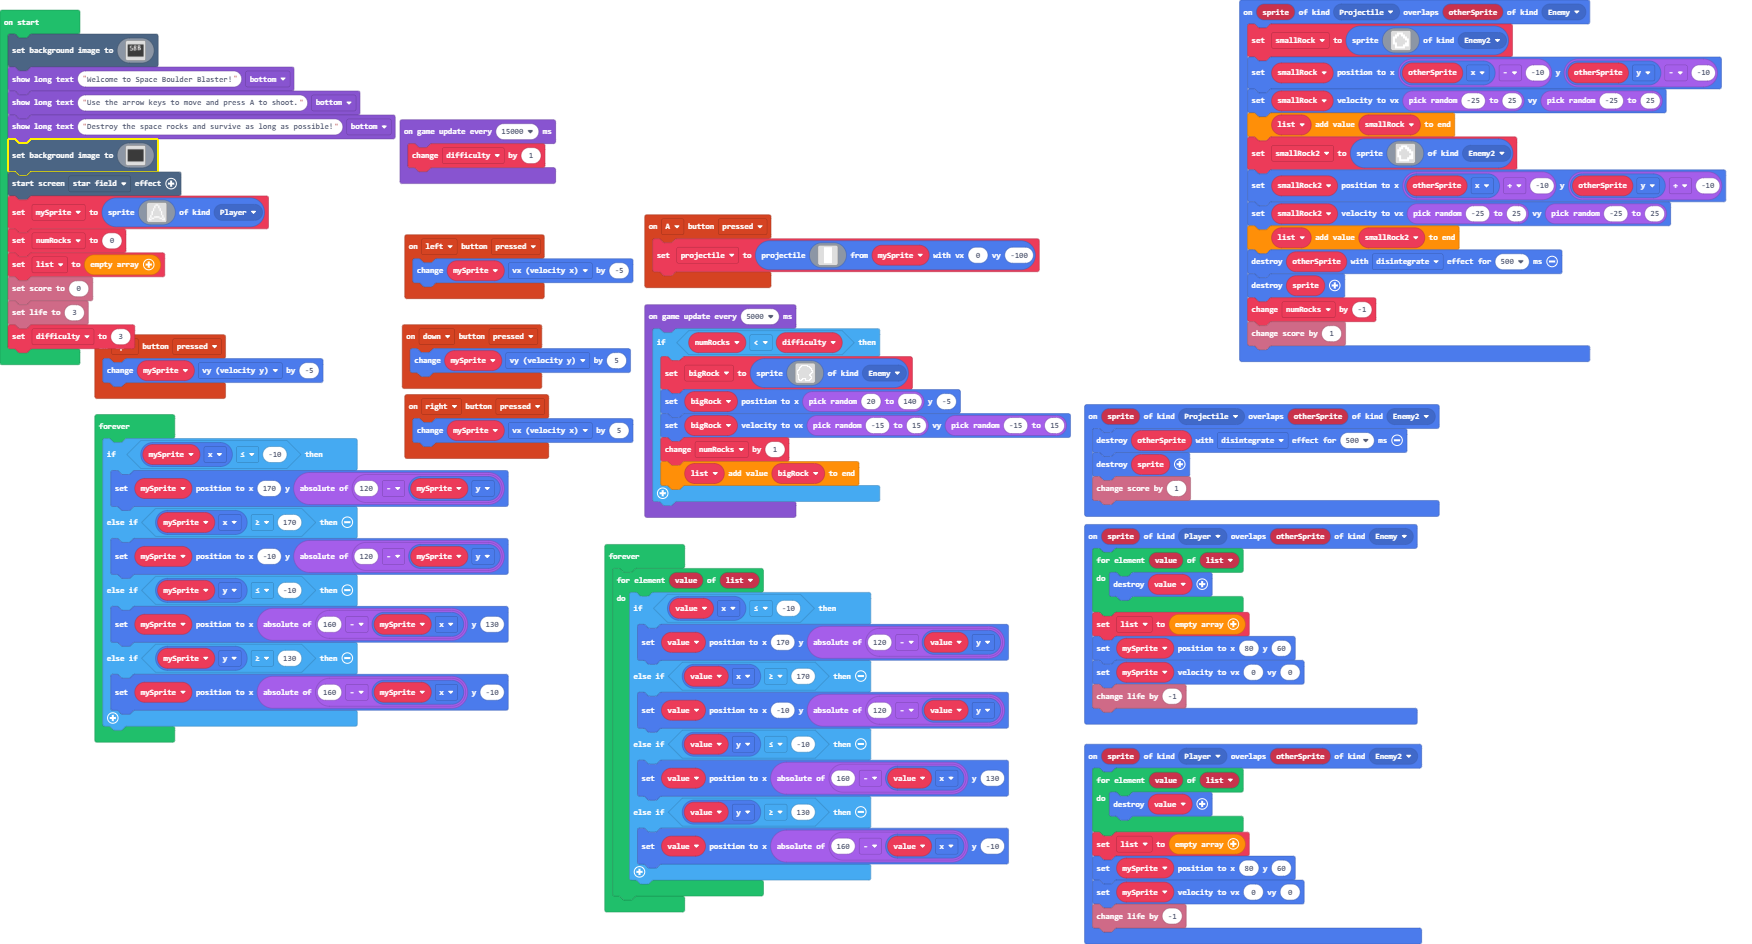
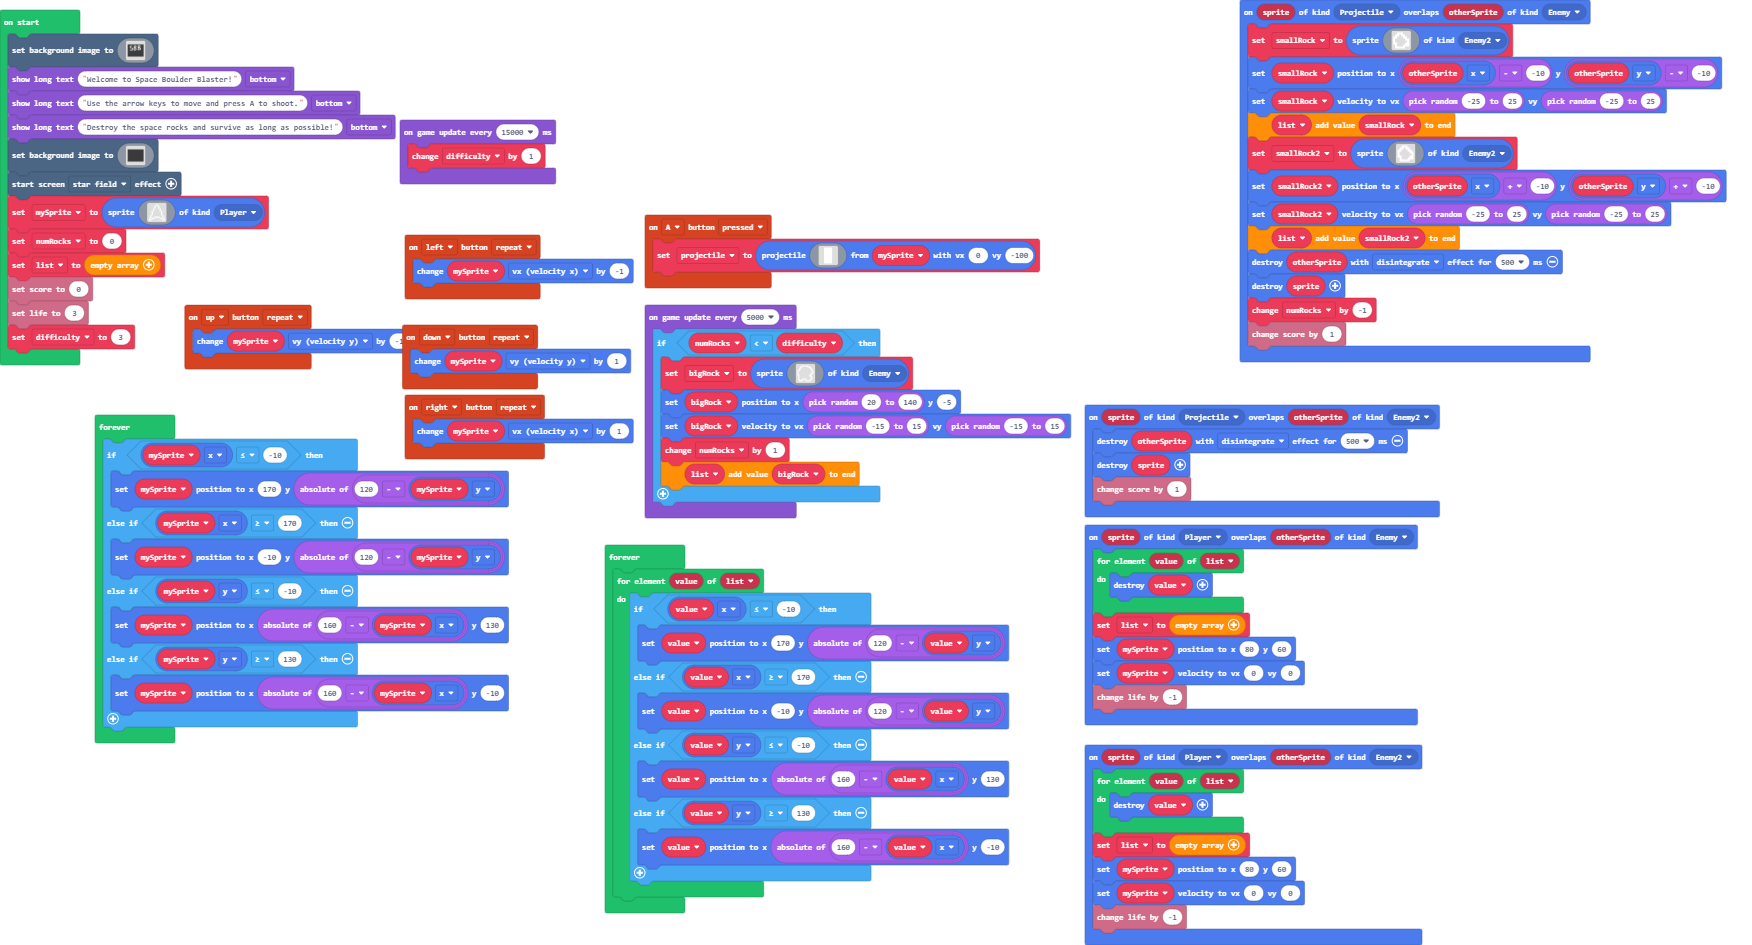
changed movement

diff --git a/main.ts b/main.ts
@@ -1,8 +1,8 @@
 namespace SpriteKind {
     export const Enemy2 = SpriteKind.create()
 }
-controller.up.onEvent(ControllerButtonEvent.Pressed, function () {
-    mySprite.vy += -5
+controller.up.onEvent(ControllerButtonEvent.Repeated, function () {
+    mySprite.vy += -1
 })
 controller.A.onEvent(ControllerButtonEvent.Pressed, function () {
     projectile = sprites.createProjectileFromSprite(img`
@@ -10,14 +10,11 @@ controller.A.onEvent(ControllerButtonEvent.Pressed, function () {
         1 
         `, mySprite, 0, -100)
 })
-controller.left.onEvent(ControllerButtonEvent.Pressed, function () {
-    mySprite.vx += -5
+controller.right.onEvent(ControllerButtonEvent.Repeated, function () {
+    mySprite.vx += 1
 })
-controller.right.onEvent(ControllerButtonEvent.Pressed, function () {
-    mySprite.vx += 5
-})
-controller.down.onEvent(ControllerButtonEvent.Pressed, function () {
-    mySprite.vy += 5
+controller.down.onEvent(ControllerButtonEvent.Repeated, function () {
+    mySprite.vy += 1
 })
 sprites.onOverlap(SpriteKind.Projectile, SpriteKind.Enemy2, function (sprite, otherSprite) {
     otherSprite.destroy(effects.disintegrate, 500)
@@ -73,6 +70,9 @@ sprites.onOverlap(SpriteKind.Player, SpriteKind.Enemy, function (sprite, otherSp
     mySprite.setPosition(80, 60)
     mySprite.setVelocity(0, 0)
     info.changeLifeBy(-1)
+})
+controller.left.onEvent(ControllerButtonEvent.Repeated, function () {
+    mySprite.vx += -1
 })
 let bigRock: Sprite = null
 let smallRock2: Sprite = null

diff --git a/images.g.ts b/images.g.ts
@@ -343,6 +343,46 @@ ffffffffffffffffffffffffffffffffffffffffffffffffffffffffffffffffffffffffffffffff
 . 1 . . . 1 1 1 
 . 1 1 1 1 1 . . 
 `;
+            case "image12":return img`
+. . 1 1 1 . . . 
+. 1 1 . 1 1 . . 
+1 1 . . . 1 1 . 
+1 . . . . . 1 1 
+1 . . . . . . 1 
+1 1 . . . . 1 1 
+. 1 . . . 1 1 1 
+. 1 1 1 1 1 . . 
+`;
+            case "image13":return img`
+. . 1 1 1 . . . 
+. 1 1 . 1 1 . . 
+1 1 . . . 1 1 . 
+1 . . . . . 1 1 
+1 . . . . . . 1 
+1 1 . . . . 1 1 
+. 1 . . . 1 1 1 
+. 1 1 1 1 1 . . 
+`;
+            case "image14":return img`
+. . 1 1 1 . . . 
+. 1 1 . 1 1 . . 
+1 1 . . . 1 1 . 
+1 . . . . . 1 1 
+1 . . . . . . 1 
+1 1 . . . . 1 1 
+. 1 . . . 1 1 1 
+. 1 1 1 1 1 . . 
+`;
+            case "image15":return img`
+. . 1 1 1 . . . 
+. 1 1 . 1 1 . . 
+1 1 . . . 1 1 . 
+1 . . . . . 1 1 
+1 . . . . . . 1 
+1 1 . . . . 1 1 
+. 1 . . . 1 1 1 
+. 1 1 1 1 1 . . 
+`;
         }
         return null;
     })
